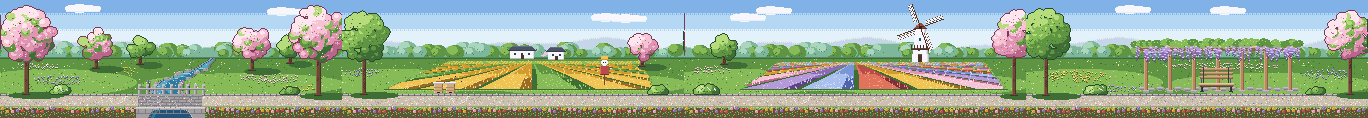
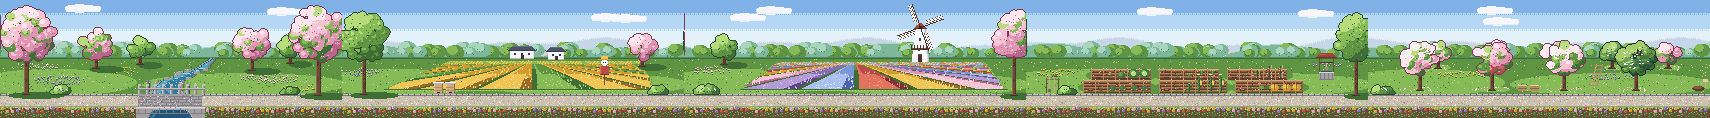
春日花溪: the wisteria screen becomes a vegetable plot, an orchard screen to its right; crop and fruit-tree stages
Claude-Session: https://claude.ai/code/session_01QXRFGGwh6ntFozGXtHod51

diff --git a/art/src/concept/spring_fields.py b/art/src/concept/spring_fields.py
@@ -1,4 +1,4 @@
-"""春日花溪: a spring-only outing, four connected 342x118 screens in the park's
+"""春日花溪: a spring-only outing, five connected 342x118 screens in the park's
 style (same sky, far tree line, gravel lane at y=94..106, flower border, trees
 and bushes from front_yard). Light from the top left.
 
@@ -7,7 +7,10 @@ and bushes from front_yard). Light from the top left.
     rape    油菜花田  terraced rapeseed rows run to the hills, white-walled
                       farmhouses, beehives beside the lane
     tulip   风车花圃  tulip stripes in four colours, a windmill behind
-    arbor   紫藤花廊  a wooden pergola heavy with wisteria, a bench under it
+    farm    小菜园    six raised beds for crops (cabbage, carrot, tomato,
+                      strawberry, corn, pumpkin; 4 stages each), a well
+    orchard 果园      pear, peach, apple and orange trees (sapling → young
+                      → blossom → fruit), an empty pit for a new tree
 
 Art only for now (user decides when it goes into the game).
     build() -> spring_<zone> (background), spring_<zone>_tree_<0|1>,
@@ -40,8 +43,9 @@ ZONES = [
      "trees": [("linden", 22, 36, 92, 22, 22), ("cherry", 300, 46, 64, 12, 11)]},
     {"id": "tulip", "name": "风车花圃",
      "trees": [("cherry", 330, 34, 93, 22, 22), ("linden", 40, 47, 62, 11, 10)]},
-    {"id": "arbor", "name": "紫藤花廊",
-     "trees": [("linden", 20, 34, 93, 22, 23), ("cherry", 324, 36, 92, 22, 22)]},
+    {"id": "farm", "name": "小菜园",
+     "trees": [("linden", 330, 36, 93, 20, 22)]},
+    {"id": "orchard", "name": "果园", "trees": []},
 ]
 
 
@@ -49,7 +53,7 @@ ZONES = [
 
 def hills(s, zone):
     """Two hazy ridges behind the tree line, the near one greener."""
-    off = {"brook": 0, "rape": 90, "tulip": 170, "arbor": 260}[zone["id"]]
+    off = {"brook": 0, "rape": 90, "tulip": 170, "farm": 260, "orchard": 40}[zone["id"]]
     for k, (base, amp, R) in enumerate(((HZ - 10, 9, P.sky_soft), (HZ - 5, 7, P.mint))):
         for x in range(W):
             u = (x + off * (k + 1)) / W * math.tau
@@ -333,51 +337,191 @@ def rape_pick(i, y):
     return P.mustard if i % 4 else G
 
 
-# ------------------------------------------------------------- arbor
+# ------------------------------------------------------------- farm
 
-ARBOR = (118, 262, 50)    # x0, x1, beam y
-
-
-def arbor(s, front=False):
-    """Pergola behind the lane: posts, beams and wisteria racemes. The back
-    half goes in the background; front=True draws only the hanging flowers
-    that overlap the beam (same layer, kept for the page if needed)."""
-    x0, x1, by = ARBOR
-    Wd = P.oak
-    rnd = random.Random(61)
-    if not front:
-        for x in range(x0, x1 + 1, 24):                    # posts
-            s.rect(x, by, 4, PATH[0] - 2 - by, Wd[2]).vline(x, by, PATH[0] - 3, Wd[3]).vline(x + 3, by, PATH[0] - 3, Wd[1])
-            s.rect(x - 1, PATH[0] - 4, 6, 3, ST[2]).hline(x - 1, x + 4, PATH[0] - 4, ST[3])
-        s.rect(x0 - 8, by - 4, x1 - x0 + 20, 3, Wd[3]).hline(x0 - 8, x1 + 11, by - 4, Wd[4]).hline(x0 - 8, x1 + 11, by - 2, Wd[1])
-        for x in range(x0 - 6, x1 + 10, 6):                # rafters ends
-            s.rect(x, by - 7, 2, 3, Wd[2]).set(x, by - 7, Wd[3])
-        s.rect(x0 - 8, by - 1, x1 - x0 + 20, 2, Wd[1])
-    # leafy mass along the top, then racemes hanging down
-    for x in range(x0 - 10, x1 + 14, 3):
-        y = by - 6 + rnd.randint(-3, 1)
-        s.ellipse(x, y, 3.5, 2.6, G[rnd.choice((2, 3))]).set(x - 1, y - 1, G[4]).set(x + 2, y + 1, G[1])
-    L = P.lilac
-    for x in range(x0 - 8, x1 + 12, 2):
-        if rnd.random() < 0.18:
-            continue
-        top = by - 3 + rnd.randint(-1, 2)
-        ln = rnd.randint(6, 16)
-        for k in range(ln):
-            w = 1 if k < ln - 3 else 0
-            c = L[3] if k < ln * 0.35 else L[2] if k < ln * 0.75 else L[1]
-            if (x + k) % 5 == 0:
-                c = L[4]
-            s.hline(x - w + (k % 2), x + (k % 2), top + k, c)
-    for _ in range(40):                                    # fallen florets on the stones
-        s.set(rnd.randint(x0 - 4, x1 + 6), rnd.randint(PATH[0] + 2, PATH[1] - 2), rnd.choice((L[3], L[4], L[2])))
+SOIL = P.wood
+PLOTS = [(66, 70, 58, 8), (134, 70, 58, 8), (202, 70, 58, 8),          # x, top, w, h: back row
+         (58, 81, 66, 10), (134, 81, 66, 10), (210, 81, 66, 10)]       # front row (bigger, nearer)
+CROPS = ["cabbage", "carrot", "tomato", "strawberry", "corn", "pumpkin"]
 
 
-def stepping(s, x0, x1):
-    """Flagstone paving under the pergola, between lawn and lane."""
-    for x in range(x0, x1, 9):
-        y = 88 + (x // 9) % 2
-        s.ellipse(x + 4, y, 4, 1.6, ST[2]).hline(x + 1, x + 6, y - 1, ST[3]).hline(x + 2, x + 6, y + 1, ST[1])
+def plot(s, x, y, w, h):
+    """A raised bed: plank edging lit on top, tilled soil in furrows."""
+    s.rect(x - 1, y - 1, w + 2, h + 3, P.oak[1])
+    s.hline(x - 1, x + w, y - 1, P.oak[3]).hline(x - 1, x + w, y + h + 1, P.oak[0])
+    s.rect(x, y, w, h, SOIL[2])
+    for yy in range(y, y + h, 3):                          # furrows: lit ridge, dark trench
+        s.hline(x, x + w - 1, yy, SOIL[3]).hline(x, x + w - 1, yy + 2, SOIL[1])
+    rnd = random.Random(x * 7 + y)
+    for _ in range(w * h // 8):
+        s.set(rnd.randint(x, x + w - 1), rnd.randint(y, y + h - 1), SOIL[rnd.choice((1, 3, 4))])
+    for px in range(x - 1, x + w + 1, 12):                 # edging posts
+        s.vline(px, y - 2, y + h + 1, P.oak[2]).set(px, y - 2, P.oak[4])
+
+
+def crop(s, kind, stage, x, base):
+    """One plant centred on x standing on `base`; stage 0 seed mound,
+    1 sprout, 2 growing, 3 ripe."""
+    L = P.green
+    if stage == 0:
+        s.hline(x - 2, x + 2, base, SOIL[1]).hline(x - 1, x + 1, base - 1, SOIL[3])
+        return
+    if stage == 1:
+        s.vline(x, base - 2, base, L[2]).set(x - 1, base - 3, L[3]).set(x + 1, base - 3, L[3]).set(x - 2, base - 3, L[2])
+        return
+    big = stage == 3
+    if kind == "cabbage":
+        r = 4 if big else 2.6
+        s.ellipse(x, base - r, r + 1, r, L[2]).ellipse(x - 1, base - r - 1, r * 0.6, r * 0.55, L[3])
+        if big:
+            s.ellipse(x, base - r, 2, 2, P.leaf_spring[4]).set(x - 1, base - r - 1, P.linen[3])
+        s.set(x + 2, base - 1, L[1])
+    elif kind == "carrot":
+        h = 7 if big else 4
+        for dx in (-2, 0, 2):
+            s.line(x, base - 1, x + dx, base - h, L[2 + (dx == 0)])
+            s.set(x + dx, base - h, L[4])
+        if big:
+            s.rect(x - 1, base - 1, 3, 2, P.coral[3]).set(x - 1, base - 1, P.coral[4])
+    elif kind == "tomato":
+        h = 11 if big else 7
+        s.vline(x + 2, base - h - 1, base, P.oak[3])         # stake
+        s.vline(x, base - h, base, L[1])
+        for k in range(2, h, 3):
+            s.hline(x - 2, x - 1, base - k, L[2]).hline(x + 1, x + 2, base - k - 1, L[3])
+        if big:
+            for fx, fy in ((-2, 4), (1, 7), (-1, 9)):
+                s.rect(x + fx, base - fy, 2, 2, P.coral[2]).set(x + fx, base - fy, P.coral[4])
+    elif kind == "strawberry":
+        s.ellipse(x, base - 2, 3, 2, L[2]).set(x - 1, base - 3, L[3]).set(x + 2, base - 1, L[1])
+        if big:
+            for fx in (-3, 2):
+                s.rect(x + fx, base - 1, 2, 2, P.coral[2]).set(x + fx, base - 1, P.coral[4]).set(x + fx + 1, base, P.coral[1])
+        else:
+            s.set(x - 2, base - 1, P.linen[3])
+    elif kind == "corn":
+        h = 15 if big else 8
+        s.vline(x, base - h, base, L[2]).vline(x + 1, base - h + 2, base, L[1])
+        for k in range(3, h, 4):
+            s.line(x, base - k, x - 3, base - k + 2, L[3]).line(x + 1, base - k - 1, x + 4, base - k + 1, L[2])
+        if big:
+            s.rect(x + 2, base - 9, 2, 4, P.mustard[3]).set(x + 2, base - 9, P.mustard[4]).set(x + 3, base - 10, L[3])
+            s.hline(x - 1, x + 1, base - h - 1, P.mustard[4])
+    elif kind == "pumpkin":
+        s.line(x - 4, base - 2, x + 4, base - 3, L[2]).ellipse(x - 3, base - 3, 2, 1.5, L[3]).ellipse(x + 3, base - 3, 2, 1.5, L[2])
+        if big:
+            s.ellipse(x, base - 3, 4, 3, P.mustard[2]).ellipse(x - 1, base - 4, 2, 1.5, P.mustard[3])
+            s.vline(x, base - 5, base - 1, P.mustard[1]).vline(x, base - 7, base - 6, P.walnut[2])
+
+
+def plot_slots(px, top, w, h):
+    """Planting spots in a bed: (x, base) pairs, one per 11 px."""
+    n = max(1, w // 11)
+    gap = w / n
+    return [(round(px + gap * (i + 0.5)), top + h - 1) for i in range(n)]
+
+
+def well(s, x, base):
+    """A stone well with a little roof and a bucket (water for the beds)."""
+    s.rect(x - 7, base - 8, 15, 8, ST[2]).hline(x - 7, x + 7, base - 8, ST[4]).hline(x - 7, x + 7, base - 1, ST[1])
+    for xx in range(x - 6, x + 7, 4):
+        s.vline(xx, base - 7, base - 2, ST[1])
+    s.hline(x - 5, x + 5, base - 9, P.sea[1])
+    for px in (x - 7, x + 7):
+        s.vline(px, base - 22, base - 9, P.walnut[2])
+    for k in range(5):
+        s.hline(x - 10 + k, x + 10 - k, base - 23 - k, P.terracotta[2] if k else P.terracotta[1])
+    s.hline(x - 6, x - 1, base - 26, P.terracotta[3])
+    s.hline(x - 6, x + 6, base - 18, P.walnut[1])                # windlass
+    s.vline(x, base - 17, base - 13, P.oat[2]).rect(x - 1, base - 13, 3, 3, P.oak[2])
+
+
+def tool_rack(s, x, base):
+    s.vline(x, base - 14, base, P.walnut[2]).vline(x + 12, base - 14, base, P.walnut[2]).hline(x, x + 12, base - 13, P.walnut[3])
+    s.vline(x + 3, base - 17, base - 1, P.oak[3]).rect(x + 2, base - 3, 3, 3, P.steel[2])      # spade
+    s.vline(x + 8, base - 17, base - 1, P.oak[3]).hline(x + 6, x + 10, base - 17, P.steel[2])  # rake
+    for k in range(6, 11, 2):
+        s.set(x + k, base - 16, P.steel[1])
+    s.rect(x + 15, base - 5, 6, 5, P.sea[2]).hline(x + 15, x + 20, base - 5, P.sea[3])     # watering can
+    s.line(x + 21, base - 4, x + 24, base - 7, P.sea[2]).hline(x + 16, x + 19, base - 7, P.sea[1])
+
+
+def farm(s):
+    for x, y, w, h in PLOTS:                               # trodden grass round each bed
+        s.ellipse(x + w / 2, y + h / 2 + 1, w / 2 + 6, h / 2 + 3, G[2])
+    for x, y, w, h in PLOTS:
+        plot(s, x, y, w, h)
+    well(s, 300, 80)
+    tool_rack(s, 20, 92)
+
+
+# ------------------------------------------------------------- orchard
+
+WHITE = [P.blossom[0], P.blossom[2], P.blossom[3], P.blossom[4], P.porcelain[3]]   # pale pink-white petals
+PEACH = [P.blossom[0], P.coral[2], P.blossom[2], P.blossom[3], P.blossom[4]]
+FY.LEAVES.setdefault(("pear", "spring"), [WHITE, WHITE, P.leaf_spring, P.leaf_spring])
+FY.LEAVES.setdefault(("apple", "spring"), [WHITE, P.blossom, WHITE, P.leaf_spring])
+FY.LEAVES.setdefault(("peach", "spring"), [PEACH, PEACH, P.blossom, P.leaf_spring])
+FY.LEAVES.setdefault(("orange", "spring"), [P.green, P.green, P.leaf_spring])
+FY.LEAVES.setdefault(("fruit", "spring"), [P.green, P.leaf_spring, P.green])
+FRUIT = {"apple": P.coral, "peach": PEACH, "pear": P.mustard, "orange": P.terracotta}
+ORCHARD = [("pear", 70, 52, 66, 10, 8), ("peach", 128, 52, 66, 10, 8), ("apple", 186, 52, 66, 10, 8), ("orange", 244, 52, 66, 10, 8),
+           ("peach", 300, 52, 66, 10, 8),
+           ("apple", 52, 58, 88, 17, 14), ("peach", 124, 58, 88, 17, 14), ("pear", 196, 58, 88, 17, 14),
+           ("orange", 268, 58, 88, 17, 14)]
+PITS = [(330, 88)]                                         # an empty spot to plant a new tree
+
+
+def orchard(s):
+    for _, x, _, base, rx, _ in ORCHARD:                  # mown circles under the trees
+        s.ellipse(x + 2, base + 1, rx * 0.7 + 3, 2.5, G[3])
+    rnd = random.Random(81)
+    for _, x, _, base, rx, _ in ORCHARD:                  # fallen petals round each trunk
+        for _ in range(int(rx * 1.5)):
+            s.set(x + rnd.randint(-rx, rx), base + rnd.randint(-1, 3), rnd.choice((P.blossom[3], P.porcelain[3])))
+    for x, y in PITS:
+        s.ellipse(x, y, 6, 2, SOIL[1]).ellipse(x - 1, y - 1, 4, 1, SOIL[2])
+        s.vline(x + 7, y - 9, y, P.oak[3]).rect(x + 5, y - 9, 5, 3, P.oak[4])     # a little sign
+    ladder(s, 222, 88)
+    for bx in (150, 162):
+        s.rect(bx, 85, 9, 6, P.oak[2]).hline(bx, bx + 8, 85, P.oak[4]).hline(bx, bx + 8, 88, P.oak[1])
+
+
+def ladder(s, x, base):
+    s.line(x, base, x + 6, base - 24, P.oak[3]).line(x + 6, base, x + 12, base - 24, P.oak[2])
+    for k in range(3, 24, 4):
+        s.hline(x + k * 6 // 24, x + 6 + k * 6 // 24, base - k, P.oak[2])
+
+
+def fruit_tree(kind, frame, at, stage=3):
+    """A fruit tree: stage 0 sapling, 1 young, 2 in blossom, 3 bearing fruit."""
+    x, cy, base, rx, ry = at
+    if stage == 0:
+        s = Sprite(W, H)
+        s.vline(x, base - 10, base, P.walnut[2]).set(x - 1, base - 10, G[3]).set(x + 1, base - 11, G[3]).set(x, base - 12, G[4])
+        s.vline(x + 3, base - 10, base, P.oak[3]).hline(x + 1, x + 3, base - 7, P.oat[2])
+        return s
+    if stage == 1:
+        return FY.tree("linden", SEASON, frame, at=(x, base - 14, base, 6, 5))
+    if stage == 2:
+        s = FY.tree(kind, SEASON, frame, at=at)
+        if kind == "orange":                               # citrus: small white flowers among dark leaves
+            rnd = random.Random("orangeflower" + str(x))
+            for _ in range(int(rx * ry / 6)):
+                u, v = rnd.uniform(-0.85, 0.85), rnd.uniform(-0.8, 0.8)
+                if u * u + v * v < 0.75:
+                    fx, fy = int(x + u * rx), int(cy + v * ry)
+                    s.set(fx, fy, P.porcelain[3]).set(fx + 1, fy, P.linen[2])
+        return s
+    s = FY.tree("fruit", SEASON, frame, at=at)
+    rnd = random.Random(kind + str(x))
+    F = FRUIT[kind]
+    for _ in range(int(rx * ry / 12)):
+        u, v = rnd.uniform(-0.8, 0.8), rnd.uniform(-0.6, 0.8)
+        if u * u + v * v < 0.7:
+            fx, fy = int(x + u * rx), int(cy + v * ry)
+            s.rect(fx, fy, 2, 2, F[2]).set(fx, fy, F[4]).set(fx + 1, fy + 1, F[1])
+    return s
 
 
 # ------------------------------------------------------------- scenes
@@ -394,8 +538,8 @@ def background(zone):
                          (300, 88, 20, 3, P.mustard), (40, 66, 22, 3, P.blossom)],
                "rape": [(20, 72, 18, 4, P.lilac)],
                "tulip": [(28, 70, 20, 4, P.blossom)],
-               "arbor": [(50, 76, 34, 6, P.mustard), (300, 74, 24, 5, P.lilac), (200, 66, 60, 3, P.blossom),
-                         (90, 88, 20, 3, P.lilac)]}[zid]
+               "farm": [(30, 72, 20, 4, P.mustard), (300, 64, 20, 2, P.lilac)],
+               "orchard": [(100, 74, 30, 3, P.mustard), (240, 76, 30, 3, P.lilac)]}[zid]
     wildflowers(s, patches, zid + "wf")
     if zid == "brook":
         brook(s)
@@ -407,10 +551,12 @@ def background(zone):
     if zid == "tulip":
         windmill(s, 236, HZ + 4)
         field(s, 170, HZ + 3, PATH[0] - 5, (96, 300), (58, 322), tulip_pick, 73)
-    if zid == "arbor":
-        stepping(s, ARBOR[0] - 6, ARBOR[1] + 10)
+    if zid == "farm":
+        farm(s)
+    if zid == "orchard":
+        orchard(s)
     PK.path(s, SEASON)
-    petals(s, PATH[0] + 2, PATH[1] - 2, 50 if zid in ("brook", "arbor") else 22, zid + "pp")
+    petals(s, PATH[0] + 2, PATH[1] - 2, 50 if zid in ("brook", "orchard") else 22, zid + "pp")
     if zid == "brook":
         bridge(s)
         petals(s, PATH[0] + 2, PATH[1] - 2, 18, "br", 138, 202)
@@ -419,14 +565,12 @@ def background(zone):
     bushes = {"brook": [("hydrangea", 60, 10, 8, 93), ("box", 290, 9, 7, 93)],
               "rape": [("box", 316, 10, 8, 93)],
               "tulip": [("hydrangea", 22, 12, 9, 93)],
-              "arbor": [("hydrangea", 70, 11, 9, 93), ("box", 290, 9, 7, 93)]}[zid]
+              "farm": [("box", 40, 9, 7, 93)],
+              "orchard": [("hydrangea", 14, 11, 9, 93)]}[zid]
     for kind, cx, hw, ht, base in bushes:
         s.blit(FY.bush(kind, cx, hw, ht, SEASON, base=base), 0, 0)
     if zid == "rape":
         beehives(s, 92, 93)
-    if zid == "arbor":
-        arbor(s)
-        PK.bench(s, 190, 92)
     border = Sprite(W, H)
     PK.border(border, SEASON)
     if zid == "brook":
@@ -437,6 +581,9 @@ def background(zone):
 
 def trees(zone, frame):
     s = Sprite(W, H)
+    if zone["id"] == "orchard":
+        for kind, x, cy, base, rx, ry in sorted(ORCHARD, key=lambda t: t[3]):
+            s.blit(fruit_tree(kind, frame, (x, cy, base, rx, ry), stage=2), 0, 0)
     for kind, x, cy, base, rx, ry in sorted(zone["trees"], key=lambda t: t[3]):
         s.blit(FY.tree(kind, SEASON, frame, at=(x, cy, base, rx, ry)), 0, 0)
     return s
@@ -444,7 +591,28 @@ def trees(zone, frame):
 
 def preview(zone, frame=0):
     s = background(zone)
+    if zone["id"] == "farm":                               # sample crops at every stage
+        for i, (x, y, w, h) in enumerate(PLOTS):
+            for j, (cx, base) in enumerate(plot_slots(x, y, w, h)):
+                crop(s, CROPS[i], min(3, j), cx, base)
     s.blit(trees(zone, frame), 0, 0)
+    return s
+
+
+def stage_sheet():
+    """Every crop and fruit tree at every stage, for review."""
+    s = Sprite(240, 180)
+    s.rect(0, 0, 240, 180, P.sky_day[3])
+    for i, kind in enumerate(CROPS):
+        y = 20 + i * 26
+        s.rect(2, y + 1, 64, 3, SOIL[2])
+        for st in range(4):
+            crop(s, kind, st, 9 + st * 16, y)
+    for i, kind in enumerate(("apple", "peach", "pear", "orange")):
+        for st in range(4):
+            cell = fruit_tree(kind, 0, (30, 18, 40, 13, 11), stage=st)
+            s.rect(72 + st * 42, 2 + i * 44 + 40, 40, 2, G[2])
+            s.blit(cell.crop(8, 2, 44, 42), 70 + st * 42, 2 + i * 44)
     return s
 
 
@@ -459,4 +627,5 @@ def build():
         out[f"spring_{zone['id']}_preview"] = pv
         pano.blit(pv, i * W, 0)
     out["spring_panorama"] = pano
+    out["spring_stages"] = stage_sheet()
     return out
